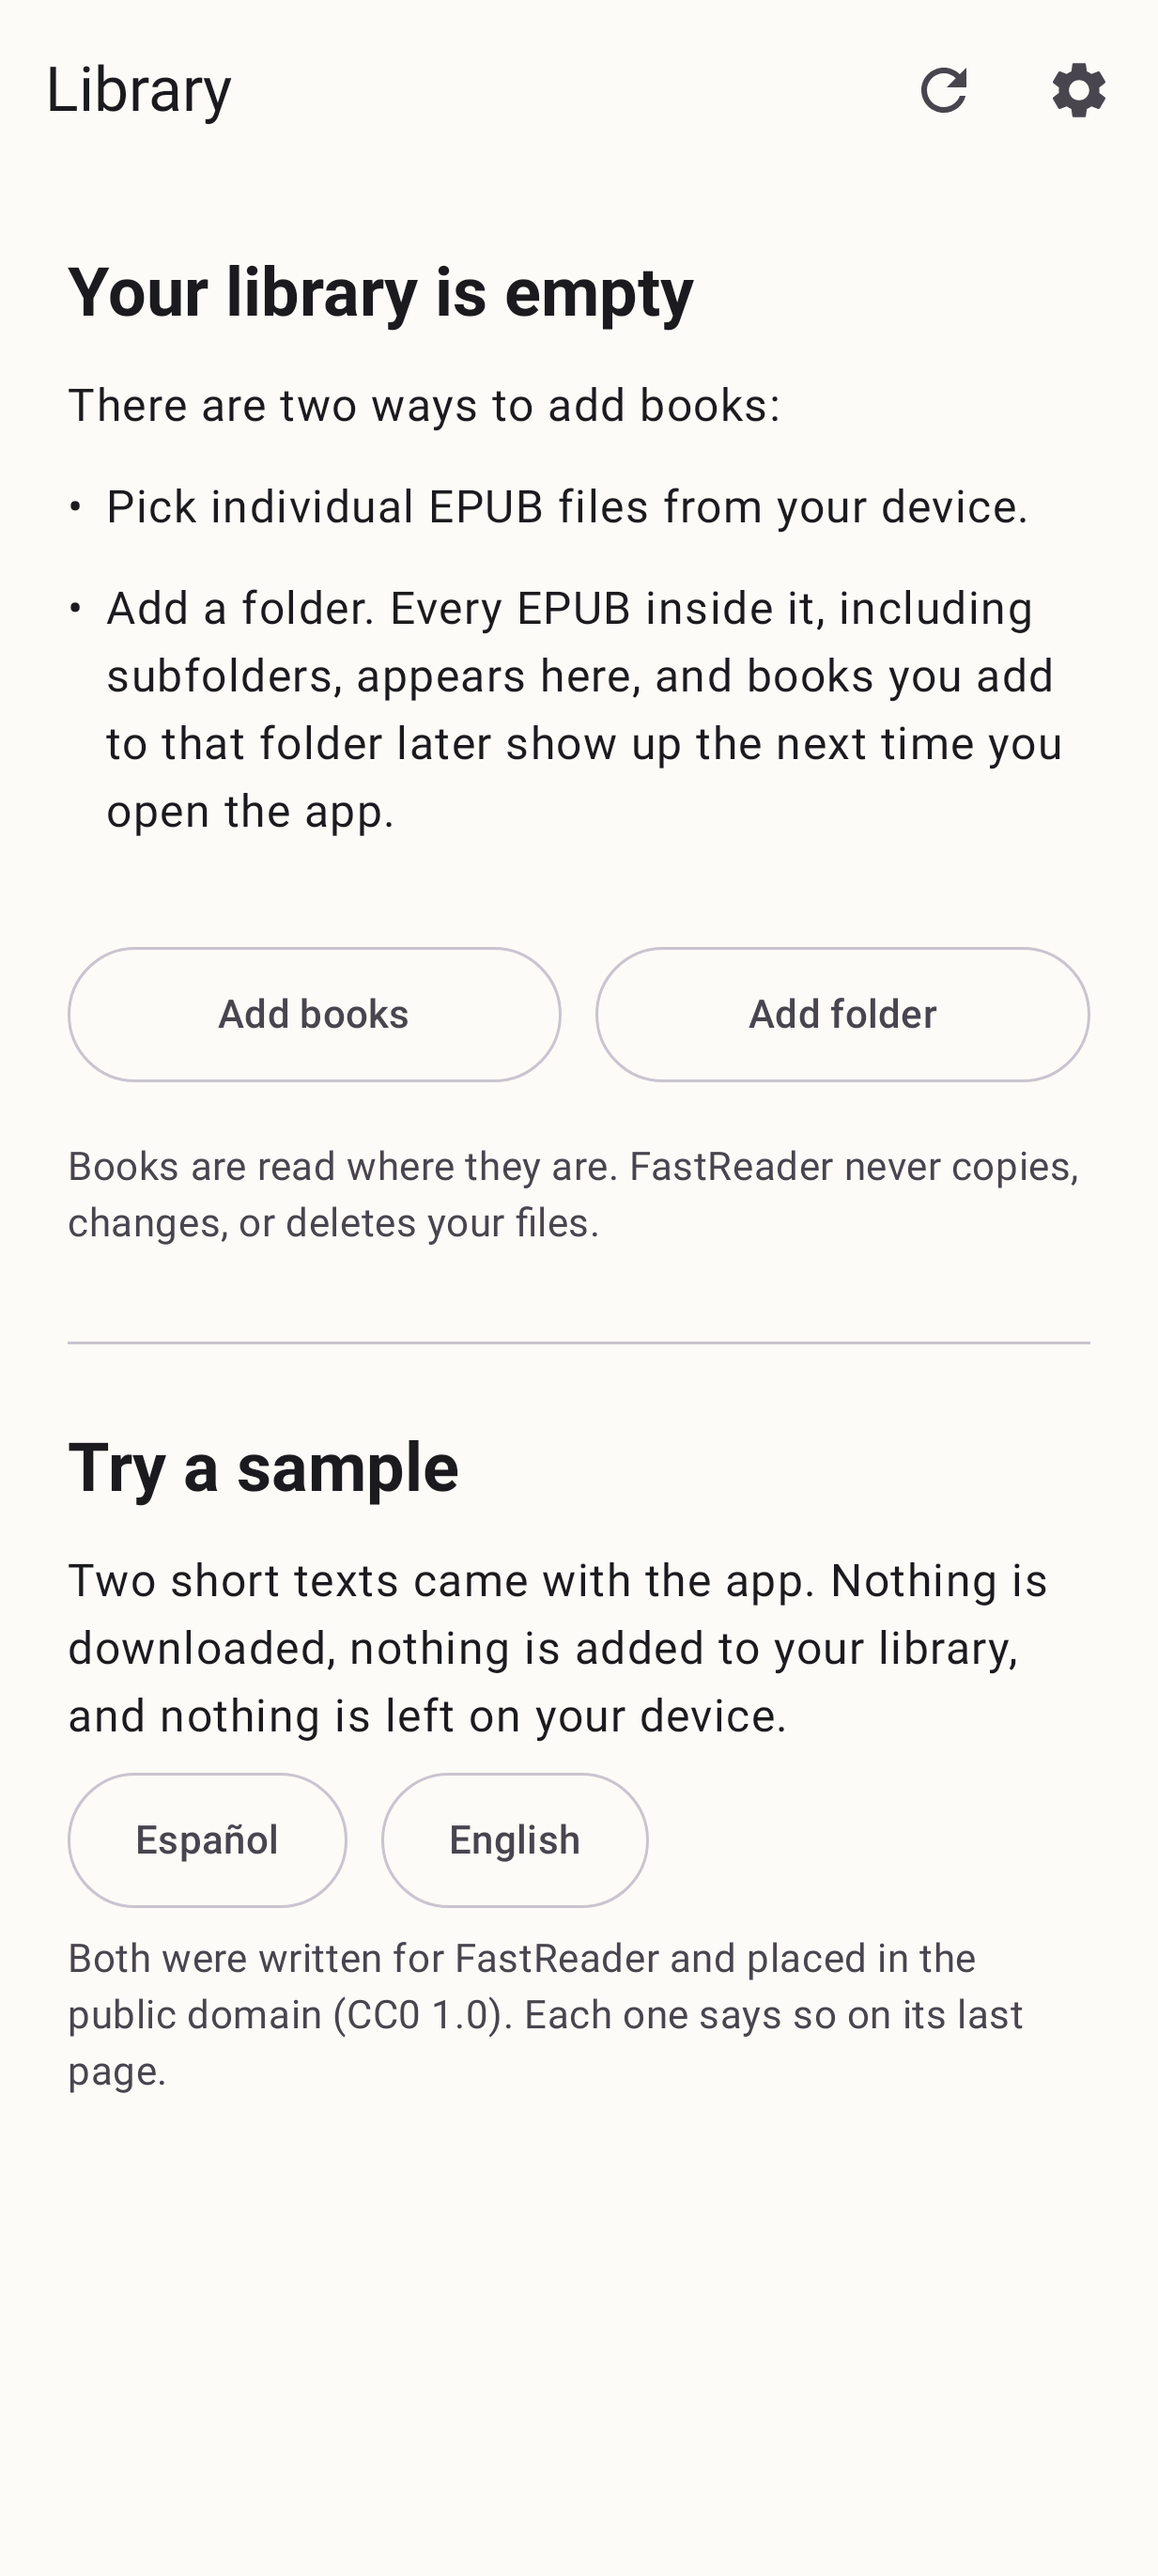
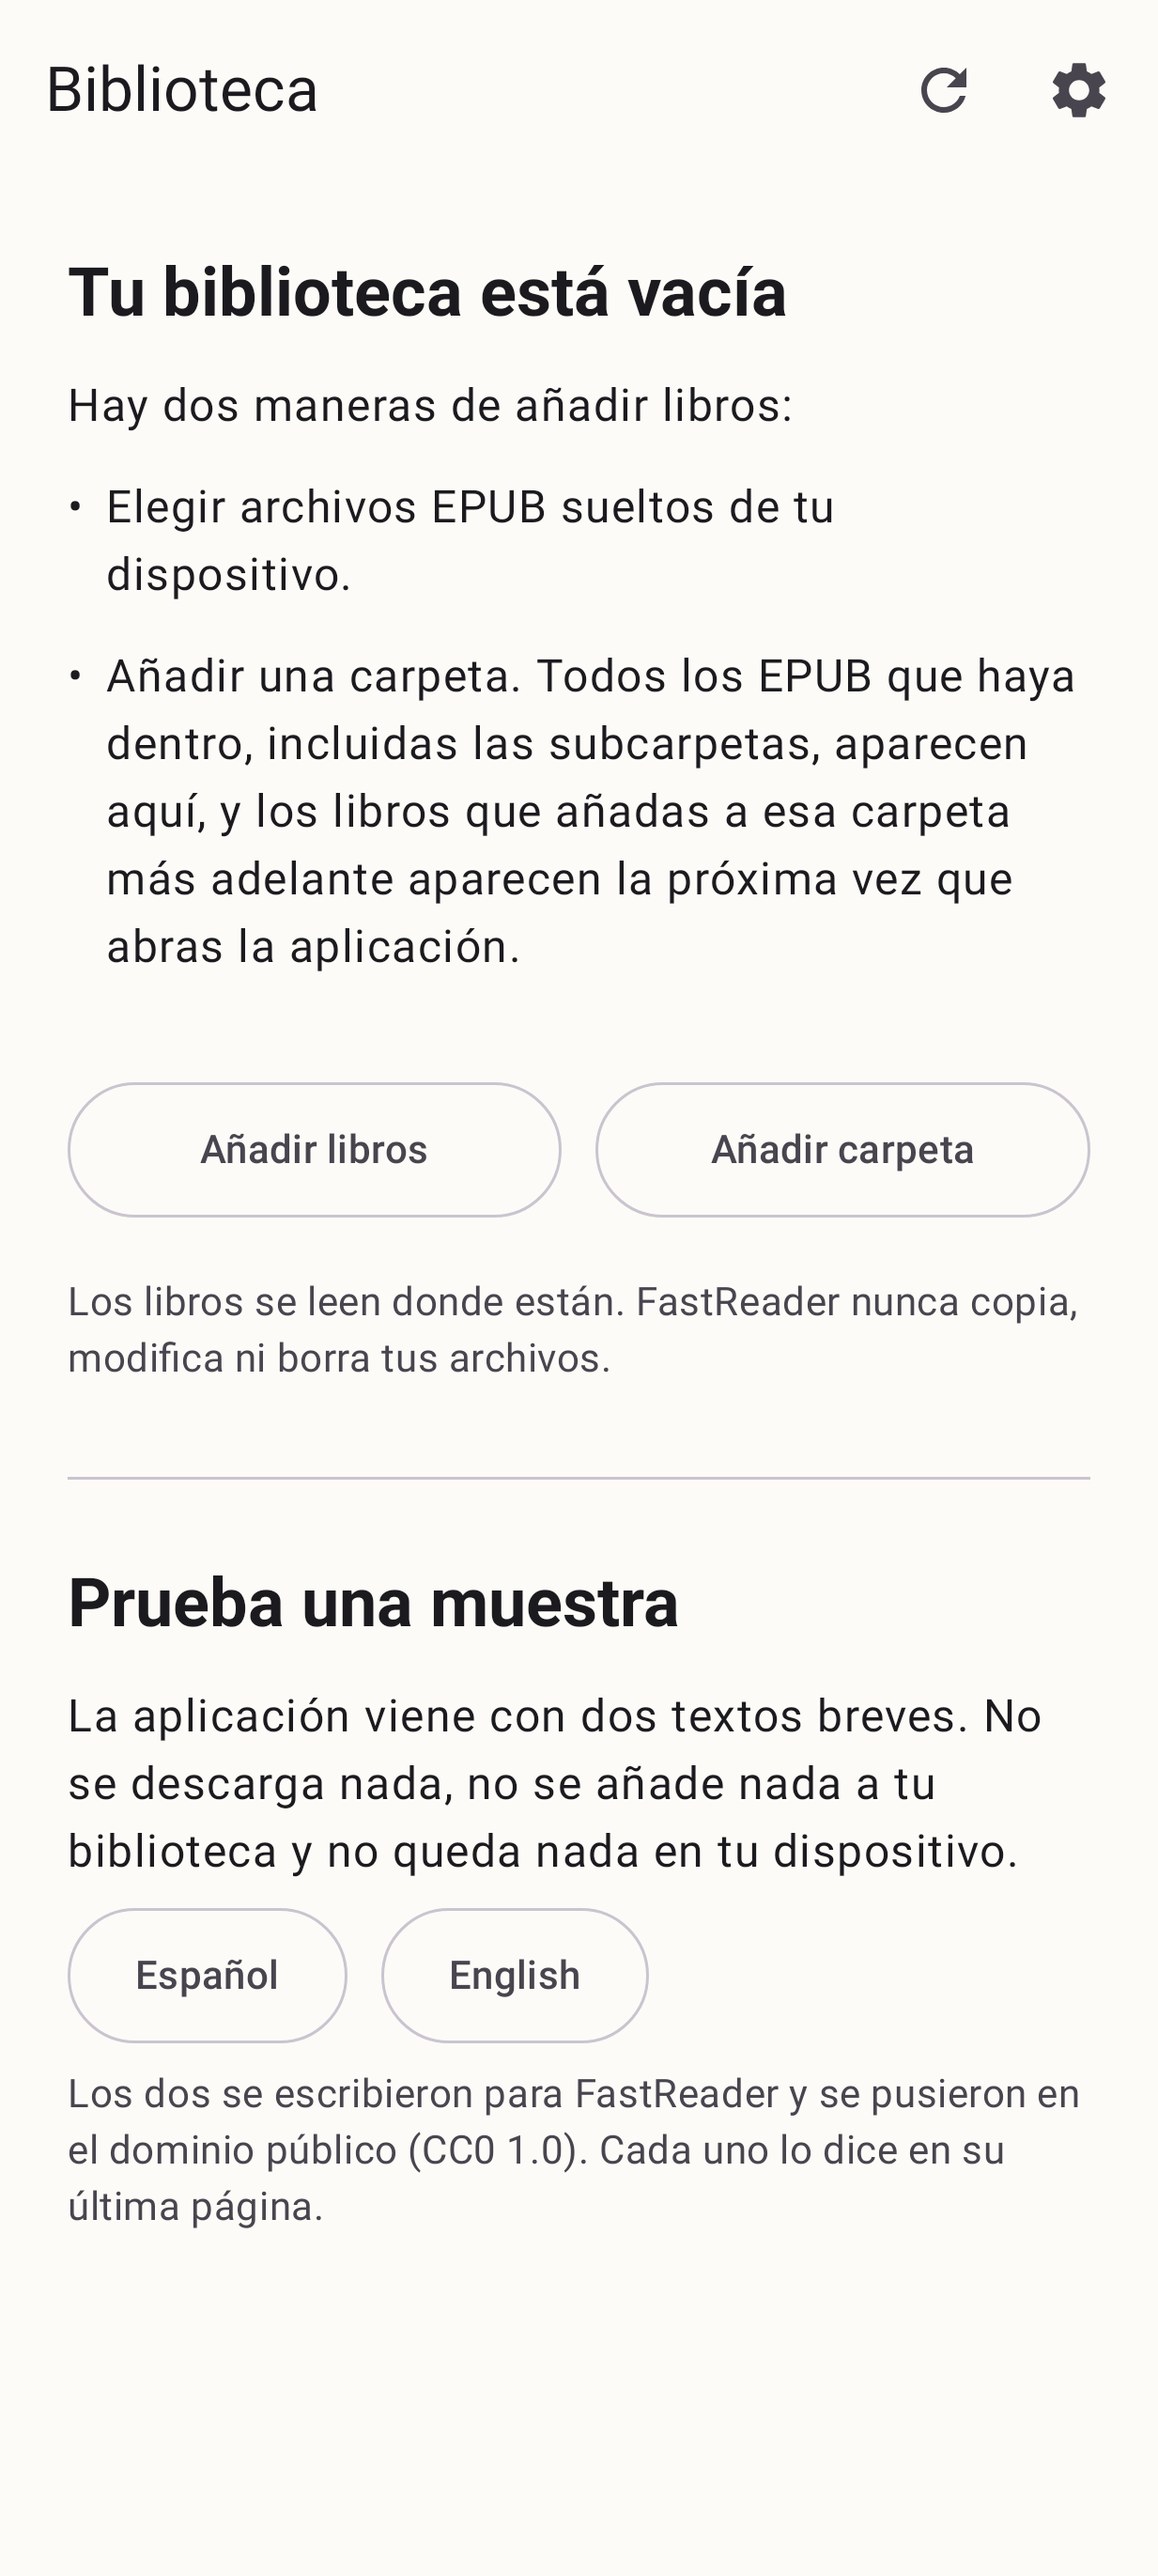
Add Spanish goldens for the library, reader, settings, folders and notices (#55)
Eleven new committed renders under the `es` qualifier, one per surface
REQ-206's acceptance names, plus the two viewports where Spanish can
actually cost something.

The pairs matter more than the images: `library_spanish`,
`reader_spanish`, `settings_spanish`, `folders_spanish`,
`crash_offer_spanish` and the three notices each have an English twin
already in the gate, so a string that falls back to English shows up as
one English word in an otherwise Spanish page rather than as a diff
nobody can read.

`settings_spanish` uses a taller window than its English twin on
purpose: REQ-206's acceptance names the visual-only statement, and
Spanish pushes it past the 1800 dp the English goldens use. Both closing
statements are inside that capture.

`library_spanish_compact_large_font` and
`settings_spanish_compact_large_font` are the length stress — 360 dp at a
large font scale, and for settings the app's own largest size on top of
a 2.0 device scale. Nothing clips; the chip rows and the "Añadir
carpeta" button wrap, which is the behaviour their layouts were built
for.

`library_empty_spanish` changes because it was recorded when only the
sample offer was Spanish; the interface around it is Spanish now.

diff --git a/app/src/test/java/com/cedagova/fastreader/library/ui/LibraryScreenScreenshotTest.kt b/app/src/test/java/com/cedagova/fastreader/library/ui/LibraryScreenScreenshotTest.kt
@@ -66,13 +66,69 @@ class LibraryScreenScreenshotTest {
     /**
      * REQ-109's language rule, proved through the mechanism that actually decides
      * it: the composition's configuration. The `es` qualifier is what a Spanish
-     * device gives the app, and the offer comes back Español first. The interface
-     * around it stays English until the Spanish resource set lands (D5).
+     * device gives the app, and the offer comes back Español first.
+     *
+     * Since #55 the interface around it is Spanish too (REQ-206, D5), so this
+     * golden now also holds the empty-library guidance — the longest prose the
+     * screen shows — in its translated form.
      */
     @Test
     @Config(qualifiers = "+es")
     fun aSpanishDeviceIsOfferedTheSpanishSampleFirst() {
         capture("library_empty_spanish", state(Catalog()))
+    }
+
+    /**
+     * REQ-206 on the library: with the device in Spanish, every word this screen
+     * puts on the page comes from `values-es` and nothing falls back to English.
+     *
+     * The populated state is the one worth holding still, because it is the one
+     * carrying strings from four different leaves at once — the app bar, the
+     * search field, both add buttons, #52's sort control and the per-book
+     * progress — and a fallback would show up as a single English word among
+     * them rather than as a broken screen.
+     */
+    @Test
+    @Config(qualifiers = "+es")
+    fun theLibraryIsSpanishOnASpanishDevice() {
+        capture("library_spanish", state(populatedCatalog()))
+    }
+
+    /**
+     * The same screen where Spanish can actually break it: Spanish prose runs
+     * longer than the English it replaces, and the narrow 720p phone at a large
+     * font scale is the first place that costs a line or clips a control. "Orden:
+     * Añadidos hace poco" and the two add buttons are the widest things here.
+     */
+    @Test
+    @Config(sdk = [35], qualifiers = "es-$COMPACT_PHONE")
+    fun theSpanishLibrarySurvivesACrampedScreenAtALargeFontScale() {
+        capture(
+            "library_spanish_compact_large_font",
+            state(
+                populatedCatalog().let {
+                    it.copy(settings = it.settings.copy(libraryOrder = LibraryOrder.RECENTLY_ADDED))
+                },
+            ),
+            fontScale = 1.3f,
+        )
+    }
+
+    /**
+     * REQ-206 on the library's notices: the resume-blocked banner, which is the
+     * longest sentence the library can put on screen and the one that has to stay
+     * honest about a reader's place being kept.
+     */
+    @Test
+    @Config(qualifiers = "+es")
+    fun theLibraryNoticesAreSpanishOnASpanishDevice() {
+        capture(
+            "library_resume_blocked_spanish",
+            state(
+                catalog = failureCatalog(),
+                resumeBlocked = ResumeBlocked("revoked", ResumeBlockedReason.PERMISSION_LOST),
+            ),
+        )
     }
 
 

diff --git a/app/src/test/java/com/cedagova/fastreader/settings/ui/SettingsScreenScreenshotTest.kt b/app/src/test/java/com/cedagova/fastreader/settings/ui/SettingsScreenScreenshotTest.kt
@@ -182,6 +182,47 @@ class SettingsScreenScreenshotTest {
         )
     }
 
+    // --- REQ-206, the Spanish interface --------------------------------------
+
+    /**
+     * REQ-206 on the densest screen in the app: five section headings, every
+     * option label, three summaries, the About rows and both long statements —
+     * the privacy paragraph and the visual-only paragraph — all from
+     * `values-es`, with nothing falling back to English.
+     *
+     * This is the golden that would catch a missed string fastest, because
+     * settings holds more distinct strings than the rest of the app together.
+     *
+     * Its window is taller than [TALL_PHONE], which the English goldens use,
+     * because REQ-206's acceptance names the visual-only statement explicitly
+     * and Spanish pushes it past 1800 dp. Both closing statements — the privacy
+     * paragraph and the visual-only paragraph — are inside this capture, so the
+     * claim "the statements are translated" is something to look at rather than
+     * something to take on trust.
+     */
+    @Test
+    @Config(sdk = [35], qualifiers = "es-$TALL_PHONE_STATEMENTS")
+    fun theSettingsScreenIsSpanishOnASpanishDevice() {
+        capture("settings_spanish", ReaderSettings.DEFAULTS)
+    }
+
+    /**
+     * The same screen where Spanish costs the most: Spanish runs longer than the
+     * English it replaces, so the narrowest phone at the largest text is where a
+     * chip row gains a line, a switch summary gains two, or the version row
+     * loses half of itself. `settings_compact_large_font` is the English twin of
+     * this image, and the pair is the comparison.
+     */
+    @Test
+    @Config(sdk = [35], qualifiers = "es-$COMPACT_PHONE_SCROLLED")
+    fun theSpanishSettingsScreenSurvivesTheNarrowestScreenAtTheLargestText() {
+        capture(
+            "settings_spanish_compact_large_font",
+            ReaderSettings.DEFAULTS.copy(fontSize = FontSize.EXTRA_LARGE),
+            fontScale = 2f,
+        )
+    }
+
     private fun capture(
         name: String,
         settings: ReaderSettings,
@@ -239,6 +280,13 @@ private const val TALL_PHONE = "w411dp-h1800dp-xxhdpi"
 
 /** The same window, tall enough to hold the whole surface at the largest text size. */
 private const val TALLER_PHONE = "w411dp-h2500dp-xxhdpi"
+
+/**
+ * Tall enough to hold the settings screen down to its last word — including the
+ * visual-only statement, which REQ-206 names and which Spanish pushes below
+ * [TALL_PHONE]'s fold.
+ */
+private const val TALL_PHONE_STATEMENTS = "w411dp-h2900dp-xxhdpi"
 
 /** 720p, 2 GB phone, matching the `Phone_Low_API33` AVD used for cramped layouts. */
 private const val COMPACT_PHONE = "w360dp-h640dp-xhdpi"

diff --git a/app/src/test/java/com/cedagova/fastreader/reader/ui/ReaderScreenScreenshotTest.kt b/app/src/test/java/com/cedagova/fastreader/reader/ui/ReaderScreenScreenshotTest.kt
@@ -68,6 +68,51 @@ class ReaderScreenScreenshotTest {
         capture("reader_paused", pausedAt(12))
     }
 
+    // --- REQ-206, the Spanish interface --------------------------------------
+
+    /**
+     * REQ-206 on the reader: with the device in Spanish every label and readout
+     * around the stream comes from `values-es`, and nothing falls back to
+     * English.
+     *
+     * Paused rather than playing, because paused is the state that has every
+     * string on screen at once — the chapter name, the progress, the time left,
+     * the speed readout in its Spanish unit, and the six transport labels that
+     * only TalkBack ever reads aloud. The book's own words are the fixture's and
+     * stay as they are: translating the interface never touches a book.
+     */
+    @Test
+    @Config(qualifiers = "+es")
+    fun theReaderIsSpanishOnASpanishDevice() {
+        capture("reader_spanish", pausedAt(12))
+    }
+
+    /**
+     * REQ-206 on the notice a book handed over by another app carries. Its
+     * sentence is the promise that nothing but the reading position is kept, so
+     * it is the one notice whose Spanish has to be exactly as narrow as the
+     * English.
+     */
+    @Test
+    @Config(qualifiers = "+es")
+    fun theExternalNoticeIsSpanishOnASpanishDevice() {
+        capture("reader_external_notice_spanish", pausedAt(12), externalNotice = true)
+    }
+
+    /**
+     * REQ-206 on #51's front-matter offer: two buttons and a sentence, where the
+     * Spanish labels are the longer pair and the chapter title is the book's own.
+     */
+    @Test
+    @Config(qualifiers = "+es")
+    fun theFrontMatterOfferIsSpanishOnASpanishDevice() {
+        capture(
+            "reader_front_matter_offer_spanish",
+            pausedAt(0),
+            frontMatterOffer = "Chapter One: The Approach",
+        )
+    }
+
     @Test
     fun theSameParagraphInDarkTheme() {
         capture("reader_paused_dark", pausedAt(12), darkTheme = true)

diff --git a/app/src/test/java/com/cedagova/fastreader/library/ui/FolderListScreenshotTest.kt b/app/src/test/java/com/cedagova/fastreader/library/ui/FolderListScreenshotTest.kt
@@ -78,6 +78,32 @@ class FolderListScreenshotTest {
         capture("folders_compact_large_font", FolderListUiState(folders = folders()), fontScale = 1.3f)
     }
 
+    /**
+     * REQ-206 on the folder list: the intro sentence that promises the files
+     * inside are never touched, both status lines, and the per-folder counts —
+     * which are plurals, so this is also where the Spanish plural set is seen
+     * rendering rather than merely passing lint.
+     */
+    @Test
+    @Config(qualifiers = "+es")
+    fun theFolderListIsSpanishOnASpanishDevice() {
+        capture("folders_spanish", FolderListUiState(folders = folders()))
+    }
+
+    /**
+     * REQ-206 on the confirmation, which is the folder screen's notice: the
+     * count of books that would leave, and the sentence saying no file is
+     * deleted. Both have to survive translation intact.
+     */
+    @Test
+    @Config(qualifiers = "+es")
+    fun theRemovalConfirmationIsSpanishOnASpanishDevice() {
+        capture(
+            "folders_remove_confirm_spanish",
+            FolderListUiState(folders = folders(), confirming = folders().first()),
+        )
+    }
+
     private fun folders() = listOf(
         LibraryFolderItem(
             id = "tree://novels",

diff --git a/app/src/test/java/com/cedagova/fastreader/crash/ui/CrashOfferScreenshotTest.kt b/app/src/test/java/com/cedagova/fastreader/crash/ui/CrashOfferScreenshotTest.kt
@@ -46,6 +46,17 @@ class CrashOfferScreenshotTest {
         capture("crash_offer_compact_large_font", fontScale = 1.3f)
     }
 
+    /**
+     * REQ-206 on the crash offer (#55). The offer is what the reader reads, so
+     * it is translated; the report the offer is about is not, and no part of it
+     * appears on this screen. `crash_offer` is the English twin.
+     */
+    @Test
+    @Config(qualifiers = "+es")
+    fun theOfferIsSpanishOnASpanishDevice() {
+        capture("crash_offer_spanish")
+    }
+
     private fun capture(name: String, fontScale: Float = 1f) {
         composeRule.setContent {
             ScaledFonts(fontScale) {
